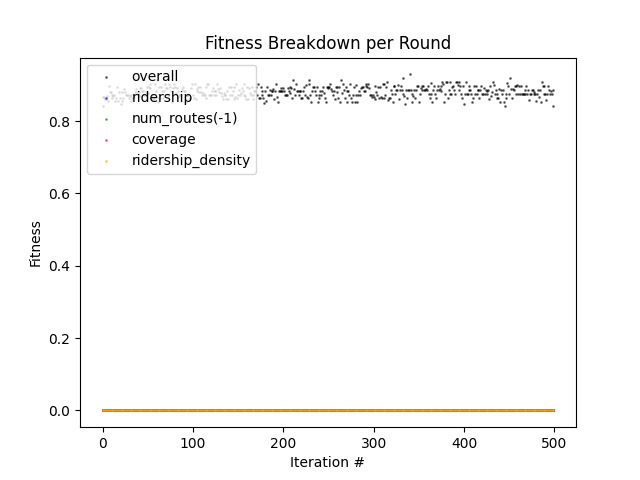
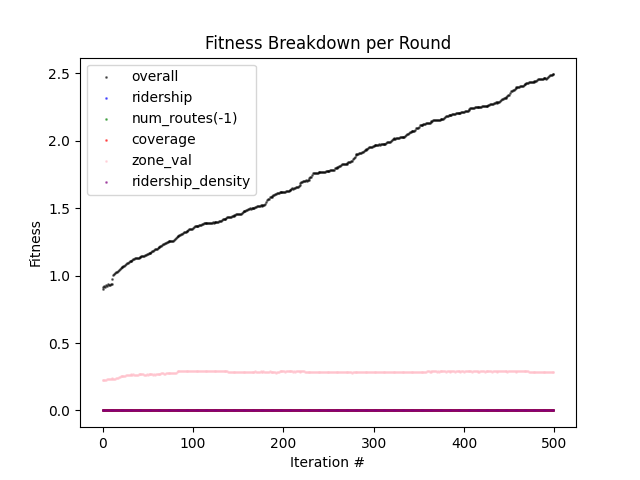
smoothing and slight tweaks

diff --git a/source/genetic_algorithm/zone_evaluator.py b/source/genetic_algorithm/zone_evaluator.py
@@ -5,19 +5,38 @@ from transit_network.trips import SimpleTrip
 from transit_network.shapes import Coords
 import genetic_algorithm.params as params
 from root_logger import RootLogger
+import csv
 
 import random 
 from typing import List, Tuple
 random.seed(10)
 
 class Zone(Coords):
-    def __init__(self, lat: float, lon: float, name: str, color: str):
+    attributes = ["name", "lat", "lon", "color", "tags"]
+
+    def __init__(self, lat: float, lon: float, name: str, color: str, tags: List[str] = None):
         Coords.__init__(self, lat, lon)
         self.name = name 
         self.color = color
+        self.tags = tags
+    
+    def to_row(self):
+        return [self.name, self.lat, self.lon, self.color, self.tags]
     
     def __str__(self):
         return self.name
+    
+def parse_zone_file(filepath: str) -> List[Zone]:
+    zones = []
+    with open(filepath, 'r') as zone_file:
+        reader = csv.reader(zone_file)
+        for index, row in enumerate(reader):
+            if index == 0:
+                assert row == Zone.attributes
+            else:
+                new_zone = Zone(lat=row[1], lon=row[2], name=row[0], color=row[3], tags=row[4])
+                zones.append(new_zone)
+    return zones
 
 class TransitPath:
     def __init__(self, first_zone: Zone, second_zone: Zone, weight: float):
@@ -28,24 +47,10 @@ class TransitPath:
     def as_tuple(self) -> Tuple[Zone, Zone, float]:
         return (self.first_zone, self.second_zone, self.weight)
 
-Z1 = Zone(params.Z1_LAT, params.Z1_LON, params.Z1_NAME, params.Z1_COLOR)
-Z2 = Zone(params.Z2_LAT, params.Z2_LON, params.Z2_NAME, params.Z2_COLOR)
-Z3 = Zone(params.Z3_LAT, params.Z3_LON, params.Z3_NAME, params.Z3_COLOR)
-Z4 = Zone(params.Z4_LAT, params.Z4_LON, params.Z4_NAME, params.Z4_COLOR)
-Z5 = Zone(params.Z5_LAT, params.Z5_LON, params.Z5_NAME, params.Z5_COLOR)
-Z6 = Zone(params.Z6_LAT, params.Z6_LON, params.Z6_NAME, params.Z6_COLOR)
-Z7 = Zone(params.Z7_LAT, params.Z7_LON, params.Z7_NAME, params.Z7_COLOR)
-Z8 = Zone(params.Z8_LAT, params.Z8_LON, params.Z8_NAME, params.Z8_COLOR)
-Z9 = Zone(params.Z9_LAT, params.Z9_LON, params.Z9_NAME, params.Z9_COLOR)
-Z10 = Zone(params.Z10_LAT, params.Z10_LON, params.Z10_NAME, params.Z10_COLOR)
-Z11 = Zone(params.Z11_LAT, params.Z11_LON, params.Z11_NAME, params.Z11_COLOR)
-Z12 = Zone(params.Z12_LAT, params.Z12_LON, params.Z12_NAME, params.Z12_COLOR)
-all_zones = [Z1, Z2, Z3, Z4, Z5, Z6, Z7, Z8, Z9, Z10, Z11, Z12]
-
 def create_paths_to_downtown(DowntownZone: Zone, all_zones: List[Zone], weight: float) -> List[TransitPath]:
     return [TransitPath(DowntownZone, z, weight) for z in all_zones]
 
-def full_connect_zones(zone_group: List[Zone], weight: float) -> List[TransitPath]:
+def fully_connect_zones(zone_group: List[Zone], weight: float) -> List[TransitPath]:
     paths = []
     for index1, z1 in enumerate(zone_group):
         for z2 in zone_group[index1:]:
@@ -54,28 +59,29 @@ def full_connect_zones(zone_group: List[Zone], weight: float) -> List[TransitPat
 
     return paths
 
-class ZoneEvaluator:
-    
-    zones = all_zones
-    zone_paths = [p for p in create_paths_to_downtown(Z2, all_zones, 1.0)] + \
-        [p for p in full_connect_zones([z for z in all_zones if z != Z2], 0.5)]
+def find_zones_with_tag(zone_group: List[Zone], tag: str, max_matches: int = 1) -> List[Zone]: 
+    matches = [z for z in zone_group if 'downtown' in z.tags]
+    if len(matches) == 0:
+        RootLogger.log_error(f'Failed to zone with tag {tag} in {zone_group}')
+        raise ValueError
+    if len(matches) > max_matches:
+        RootLogger.log_warning(f'Found more than maximal matching zones {matches} with tag {tag}')
+    else:
+        return matches
 
-    # zone_paths = [(Z1, Z2, 1.0), 
-    #               (Z3, Z2, 1.0), 
-    #               (Z4, Z2, 1.0),
-    #               (Z5, Z2, 1.0), 
-    #               (Z6, Z2, 1.0), 
-    #               (Z7, Z2, 1.0), 
-    #               (Z8, Z2, 1.0),
-    #               (Z9, Z2, 1.0), 
-    #               (Z1, Z3, 0.5),
-    #               ()]
+ZONES = parse_zone_file(params.ZONE_FILE)
+DOWNTOWN_ZONE = find_zones_with_tag(ZONES, 'downtown')[0]
+SUBURB_ZONES = [z for z in ZONES if z != DOWNTOWN_ZONE]
+
+class ZoneEvaluator:
+
+    zone_paths = [p for p in create_paths_to_downtown(DOWNTOWN_ZONE, ZONES, 1.0)] + [p for p in fully_connect_zones(SUBURB_ZONES, 0.5)]
 
     def __init__(self, initial_network: TransitNetwork):
         self.initial_network = initial_network
         self.pool_of_stops = initial_network.stops 
-        self.zone_keys = dict([(z, i) for i, z in enumerate(self.zones)])
-        self.stops_in_zone = [self.determine_stops_in_range(z) for z in self.zones]
+        self.zone_keys = dict([(z, i) for i, z in enumerate(ZONES)])
+        self.stops_in_zone = [self.determine_stops_in_range(z) for z in ZONES]
         self.current_stop_choices = {}
         self.initial_zone_score = 0
 
@@ -83,9 +89,8 @@ class ZoneEvaluator:
         self.log_choices()
         
     def log_choices(self) -> None:
-
         result_str = '*\n'
-        for zone in self.zones:
+        for zone in ZONES:
             result_str += str(zone)
             for stop_choice in self.current_stop_choices[self.get_zone_key(zone)]:
                 result_str += '\t'
@@ -116,7 +121,7 @@ class ZoneEvaluator:
         return stop_choice
     
     def sample_stops(self):
-        for z in self.zones:
+        for z in ZONES:
             z_key = self.get_zone_key(z) 
             self.current_stop_choices[z_key] = [self.sample_stop_for_zone(z) for i in range(params.ZONE_SAMPLE_NUM)]
         # Update initial_zone_score with new sample
@@ -193,8 +198,8 @@ class ZoneEvaluator:
                 routes_dist.append(route_dist)
 
         if routes_dist == [] or min(routes_dist) == float('inf'):
-            RootLogger.log_warning(f'Unable to find route from {source_zone} to {target_zone}, giving distance of {params.DEFAULT_ZONE_DISTANCE}')
-            RootLogger.log_warning(f'None of {all_route_options} reach {target_zone}!')
+            RootLogger.log_debug(f'Unable to find route from {source_zone} to {target_zone}, giving distance of {params.DEFAULT_ZONE_DISTANCE}')
+            RootLogger.log_debug(f'None of {all_route_options} reach {target_zone}!')
             return params.DEFAULT_ZONE_DISTANCE
 
         return min(routes_dist)
@@ -203,7 +208,7 @@ class ZoneEvaluator:
         total_zone_distance = 0.0
 
         for path in self.zone_paths:
-            source_zone, target_zone, weight = path.to_tuple()
+            source_zone, target_zone, weight = path.as_tuple()
 
             dist_1 = self.evaluate_zone_distance(target_network, source_zone, target_zone)
             dist_2 = self.evaluate_zone_distance(target_network, target_zone, source_zone)

diff --git a/source/visuals/plot_zones.py b/source/visuals/plot_zones.py
@@ -5,21 +5,8 @@ from math import cos, sin, pi
 
 from typing import List, Tuple
 
-from genetic_algorithm.zone_evaluator import Zone
-from genetic_algorithm.params import ZONE_RADIUS
-
-def convert_zones_to_df(zones: List[Zone]) -> pd.DataFrame:
-    rows = []
-    
-    headers = ['zone_name', 'lat', 'lon', 'color']
-    for zone in zones:
-        cur_row = [zone.name] + zone.get_coords() + [zone.color]
-        rows.append(cur_row) 
-    df = pd.DataFrame(rows, columns=headers)
-    df['radius'] = ZONE_RADIUS
-
-    return df
-
+from genetic_algorithm.zone_evaluator import Zone, parse_zone_file
+from genetic_algorithm.params import ZONE_RADIUS, ZONE_FILE
 
 def get_circle_radius(lat: float, lon: float) -> Tuple[List[Tuple[float, float]]]:
     N = 360 # number of discrete sample points to be generated along the circle
@@ -44,9 +31,8 @@ def plot_from_df(df: pd.DataFrame):
     fig = px.scatter_mapbox(df, 
                             lat="lat", 
                             lon="lon", 
-                            hover_name="zone_name", 
-                            hover_data=["zone_name", "lat", "lon"],
-                            size="radius",
+                            hover_name="name", 
+                            hover_data=["name", "lat", "lon"],
                             zoom=10)
 
     for index, row in df.iterrows():
@@ -56,13 +42,13 @@ def plot_from_df(df: pd.DataFrame):
                     lon=circle_lons,
                     line={'width': 5},
                     mode='markers+lines', 
-                    name=row['zone_name'],
+                    name=row['name'],
                     marker={'size':1, 'color': row['color']})
         )
         
     fig.update_layout(mapbox_style="open-street-map", margin={"r":0,"t":0,"l":0,"b":0})
     fig.show()
 
-def plot_zones(zones: List[Zone]) -> None:
-    df = convert_zones_to_df(zones)
+def plot_zones() -> None:
+    df = pd.read_csv(ZONE_FILE)
     plot_from_df(df)

diff --git a/source/genetic_algorithm/fitness_function.py b/source/genetic_algorithm/fitness_function.py
@@ -5,7 +5,12 @@ from genetic_algorithm.zone_evaluator import ZoneEvaluator
 
 class Fitness:
 
-    def __init__(self, zone_val: float, ridership_val: float, routes_val: float, coverage_val: float, ridership_density_val: float, fitness: float):
+    def __init__(self, zone_val: float, 
+                       ridership_val: float, 
+                       routes_val: float, 
+                       coverage_val: float, 
+                       ridership_density_val: float, 
+                       fitness: float):
         self.ridership_val = ridership_val / (params.sum_of_fitness_coefficients())
         self.routes_val = routes_val / (params.sum_of_fitness_coefficients())
         self.coverage_val = coverage_val / (params.sum_of_fitness_coefficients())
@@ -19,7 +24,7 @@ class Fitness:
             'routes_val': self.routes_val, 
             'coverage_val': self.coverage_val, 
             'ridership_density_val': self.ridership_density_val, 
-            'zone': self.zone_val,
+            'zone_val': self.zone_val,
             'fitness': self.fitness
         }
     
@@ -44,10 +49,10 @@ def evaluate_network_new(net: TransitNetwork, initial_metrics: NetworkMetrics, Z
     fitness = (ridership_val + routes_val + coverage_val + ridership_density_val + zone_score)/(params.sum_of_fitness_coefficients())
 
     FitnessObj = Fitness(zone_val=zone_score, 
-                         ridership_val=0, 
-                         routes_val=0, 
-                         coverage_val=0, 
-                         ridership_density_val=0,
+                         ridership_val=ridership_val, 
+                         routes_val=routes_val, 
+                         coverage_val=coverage_val, 
+                         ridership_density_val=ridership_density_val,
                          fitness=fitness)
     
     return FitnessObj

diff --git a/source/visuals/graph_metrics.py b/source/visuals/graph_metrics.py
@@ -14,6 +14,7 @@ RIDERSHIP_HEADER = 'ridership_val'
 NUM_ROUTES_HEADER = 'routes_val'
 COVERAGE_HEADER = 'coverage_val'
 RIDERSHIP_DENSITY_HEADER = 'ridership_density_val'
+ZONE_HEADER = 'zone_val'
 
 ALPHA_VALUE = 0.5
 DOT_SIZE = 1
@@ -58,6 +59,7 @@ def plot_all_fitness_metrics(filename, output_file='fitness_plot.png'):
     ridership = df[get_header(RIDERSHIP_HEADER, 'avg')]
     num_routes = df[get_header(NUM_ROUTES_HEADER, 'avg')].apply(lambda x: abs(x))
     coverage = df[get_header(COVERAGE_HEADER, 'avg')]
+    zone_vals = df[get_header(ZONE_HEADER, 'avg')]
     ridership_density = df[get_header(RIDERSHIP_DENSITY_HEADER, 'avg')]
     fig = plt.figure()
     ax1 = fig.add_subplot(111)
@@ -65,7 +67,8 @@ def plot_all_fitness_metrics(filename, output_file='fitness_plot.png'):
     ax1.scatter(x, ridership, c='blue', marker="o", s=DOT_SIZE, alpha=ALPHA_VALUE, label='ridership')
     ax1.scatter(x, num_routes, c='green', marker="o", s=DOT_SIZE, alpha=ALPHA_VALUE, label='num_routes(-1)')
     ax1.scatter(x, coverage, c='red', marker="o", s=DOT_SIZE, alpha=ALPHA_VALUE, label='coverage')
-    ax1.scatter(x, ridership_density, c='orange', s=DOT_SIZE, alpha=ALPHA_VALUE, marker="o", label='ridership_density')
+    ax1.scatter(x, zone_vals, c='pink', marker="o", s=DOT_SIZE, alpha=ALPHA_VALUE, label='zone_val')
+    ax1.scatter(x, ridership_density, c='purple', s=DOT_SIZE, alpha=ALPHA_VALUE, marker="o", label='ridership_density')
 
     plt.legend(loc='upper left')
     plt.xlabel("Iteration #")

diff --git a/source/main.py b/source/main.py
@@ -2,10 +2,8 @@ from utility import read_object_from_file
 from genetic_algorithm.initial_population_generator import initiate_population_from_network 
 from visuals.graph_metrics import graph_all_metrics
 from visuals.graph_gtfs import generate_diagram
-from visuals.plot_zones import plot_zones
 from root_logger import RootLogger
-from simplify_gtfs import create_simplified_gtfs_SFMTA
-from genetic_algorithm.zone_evaluator import all_zones
+from visuals.plot_zones import plot_zones
 
 import os
 import pandas as pd
@@ -49,10 +47,10 @@ def examine_best_performer(output_dir: str):
 
 
 if __name__ == '__main__':
-    plot_zones(all_zones)
-    # num_generations = 750
-    # population_size = 100
-    # initial_network_path_input = './data/new_initial_net.pkl'
-    # run_from_network(num_generations, population_size, initial_network_path=initial_network_path_input)
-    #examine_best_performer('output/1000i500p')
+    # plot_zones()
+    num_generations = 50
+    population_size = 100
+    initial_network_path_input = './data/new_initial_net.pkl'
+    run_from_network(num_generations, population_size, initial_network_path=initial_network_path_input)
+    examine_best_performer('output/50i100p')
     #create_simplified_gtfs_SFMTA('data/new_initial_net')

diff --git a/source/playground.py b/source/playground.py
@@ -7,11 +7,18 @@
 from simplify_gtfs import create_simplified_gtfs_SFMTA
 from utility import read_object_from_file
 from genetic_algorithm.zone_evaluator import ZoneEvaluator
-from visuals.plot_zones import convert_zones_to_df, next_step
-from genetic_algorithm.zone_evaluator import all_zones
 """
 This script is purely for informal testing and 'playing' with new code. 
 """
+# import csv 
+
+# headers = temp_all_zones[0].attributes
+# rows = [z.to_row() for z in temp_all_zones]
+# with open('zone_file.csv', 'w') as output:
+#     csv_writer = csv.writer(output)
+#     csv_writer.writerow(headers)
+#     csv_writer.writerows(rows)
+
 # Network = read_object_from_file('data/new_initial_net/new_initial_net.pkl')
 # ZE = ZoneEvaluator(Network)
 # ZE.sample_stops()

diff --git a/source/genetic_algorithm/breeder.py b/source/genetic_algorithm/breeder.py
@@ -49,6 +49,10 @@ def produce_child_trip(first_trip: SimpleTrip, second_trip: SimpleTrip, shared_s
 
     # Remove the old routes from the trips.     
 
+    # Attempt at smoothing bred routes, in testing this worked really well. 
+    first_index = (first_index + 1) if first_index != len(first_trip.shape_points) else first_index
+    second_index = (second_index + 1) if second_index != len(second_trip.shape_points) else second_index
+
     new_shapes = deepcopy(first_trip.shape_points[:first_index] + second_trip.shape_points[second_index:])
 
     # We generate global unique ids for performance reasons. 

diff --git a/source/genetic_algorithm/params.py b/source/genetic_algorithm/params.py
@@ -4,10 +4,10 @@ PROB_MUTATION = 0.01
 DELTA_MUTATION = 2
 
 ##  Fitness Function
-RIDERSHIP_LAMBDA = 0.0
-NUM_ROUTES_LAMBDA = 0.0
-COVERAGE_LAMBDA = 0.0
-RIDERSHIP_DENSITY_LAMBDA = 0.0
+RIDERSHIP_LAMBDA = 0.25
+NUM_ROUTES_LAMBDA = 0.25
+COVERAGE_LAMBDA = 0.25
+RIDERSHIP_DENSITY_LAMBDA = 0.25
 ZONE_LAMBDA = 0.5
 
 ZONE_RADIUS = 900
@@ -15,6 +15,7 @@ ZONE_EPSILON = 0.5
 DEFAULT_ZONE_DISTANCE = 40
 ZONE_SAMPLE_NUM = 3
 
+ZONE_FILE = 'data/zone_file.csv'
 # Can use to draw: https://www.calcmaps.com/map-radius/
 Z1_LAT = 37.780554
 Z1_LON = -122.472288
